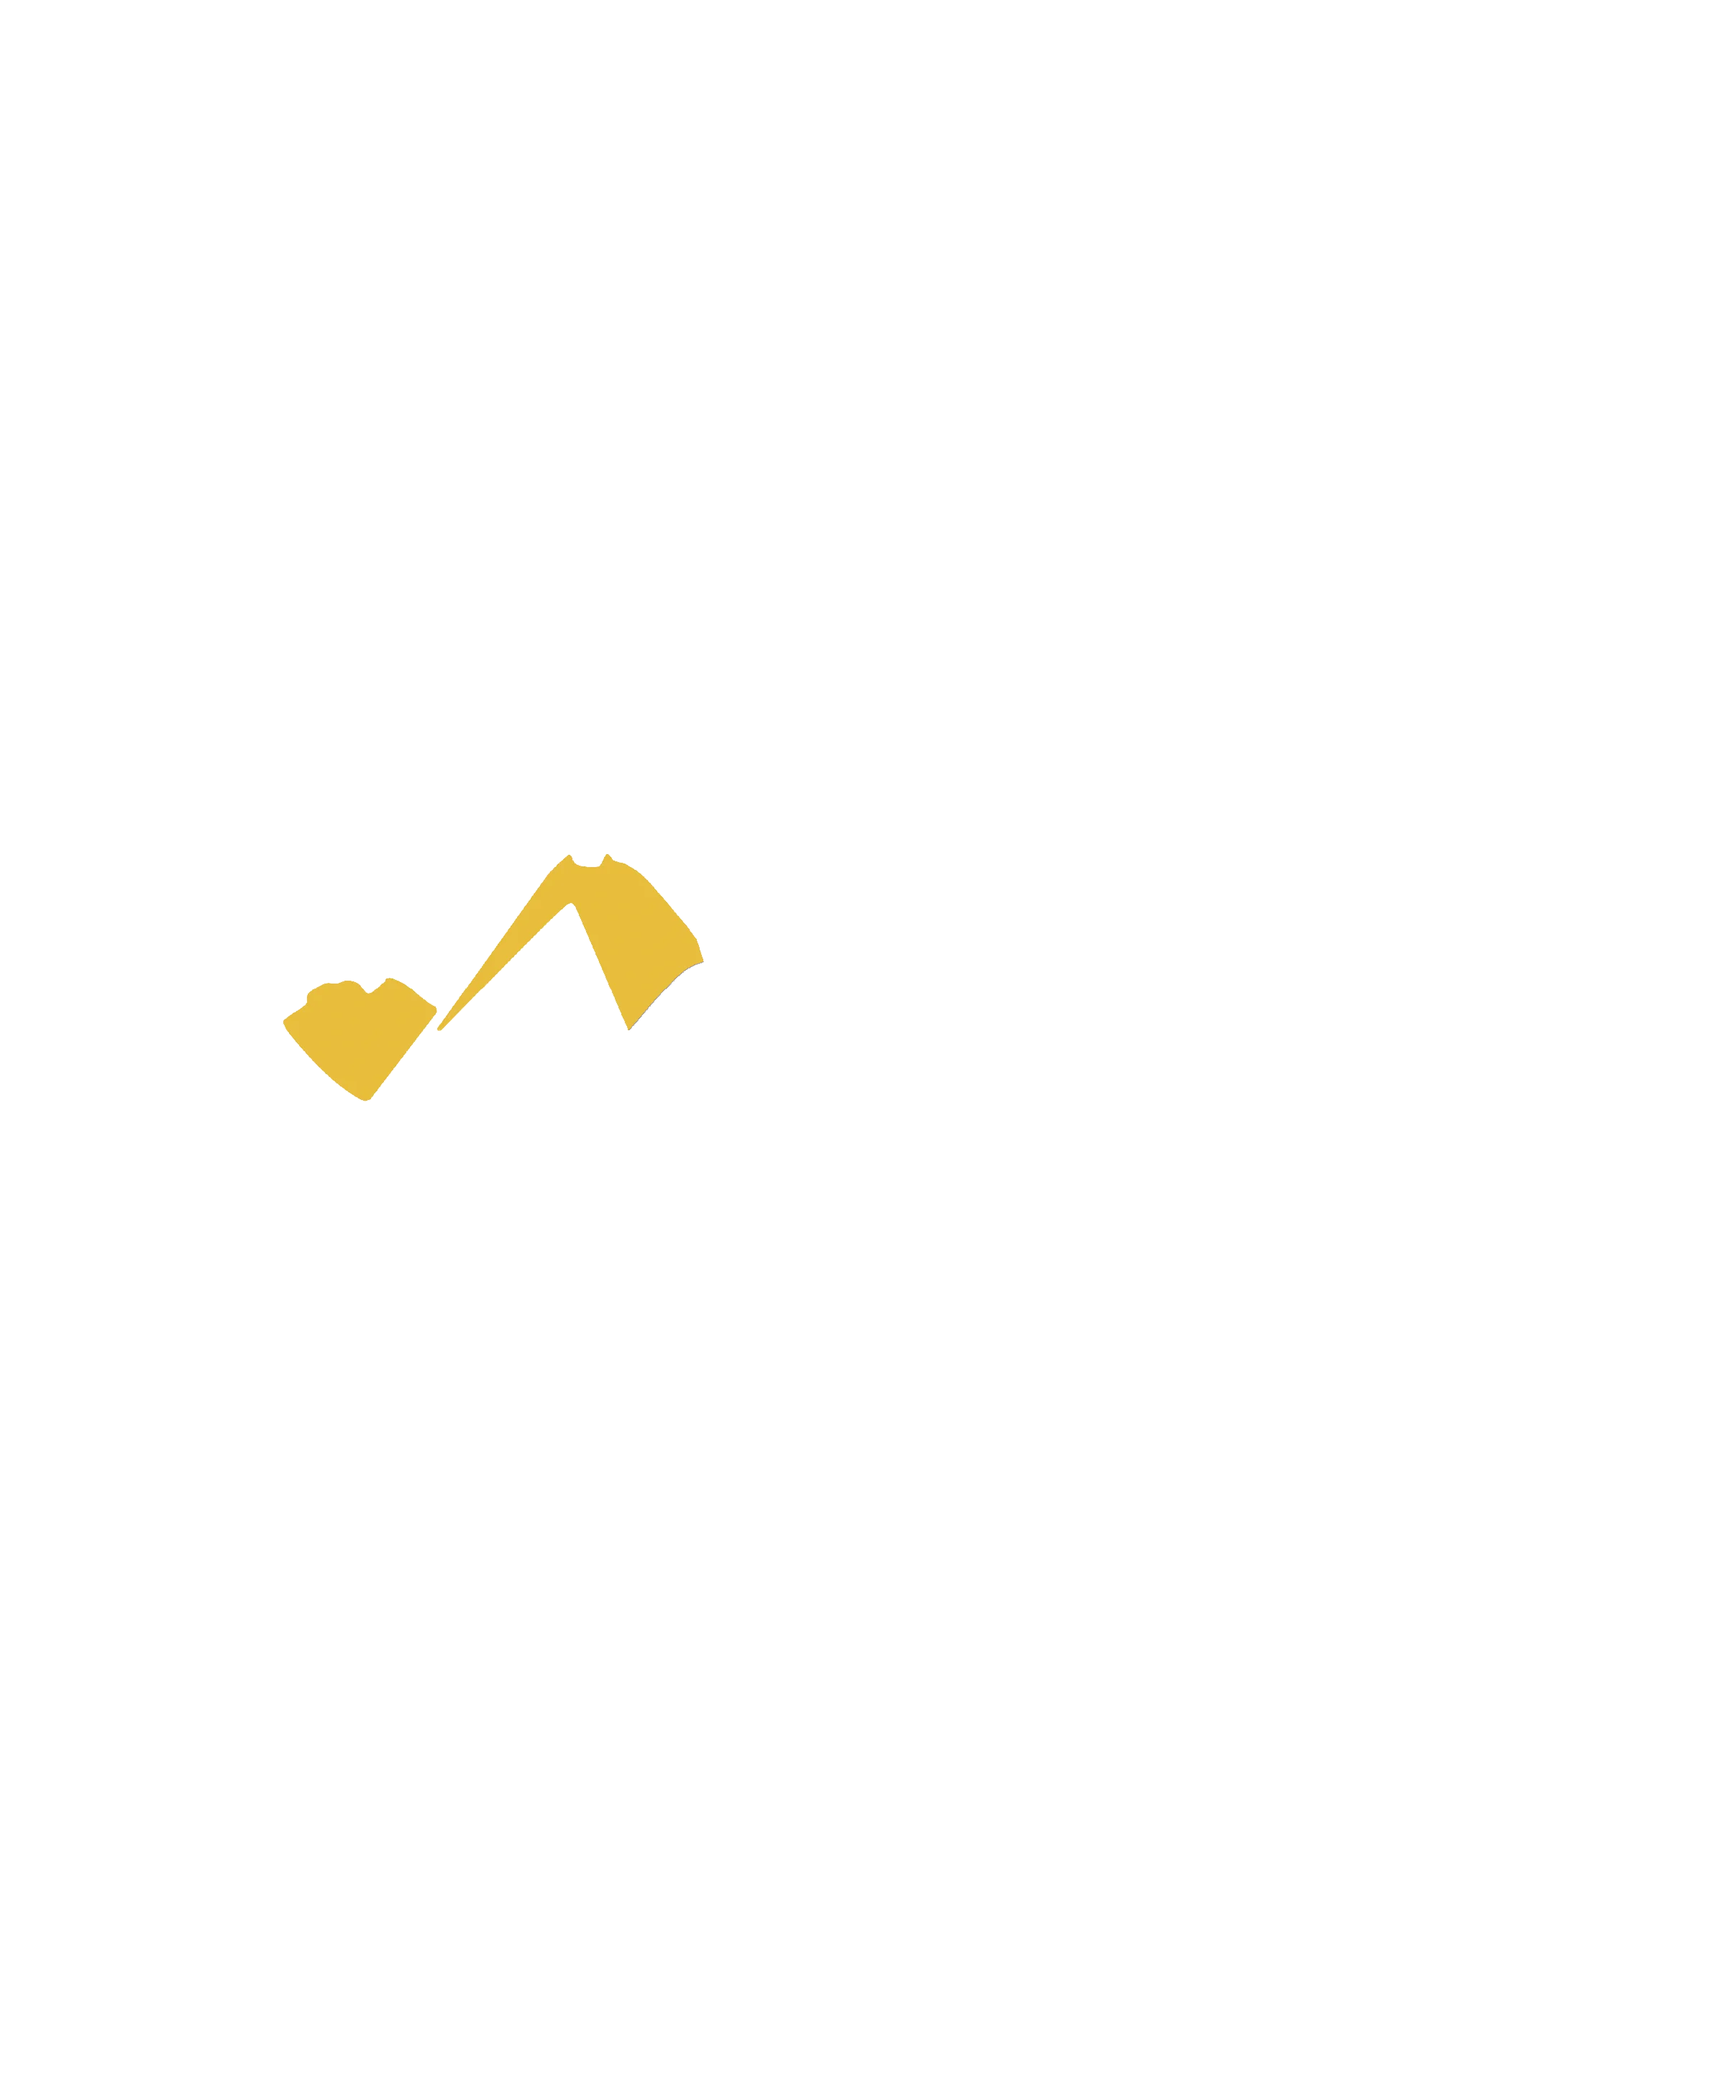
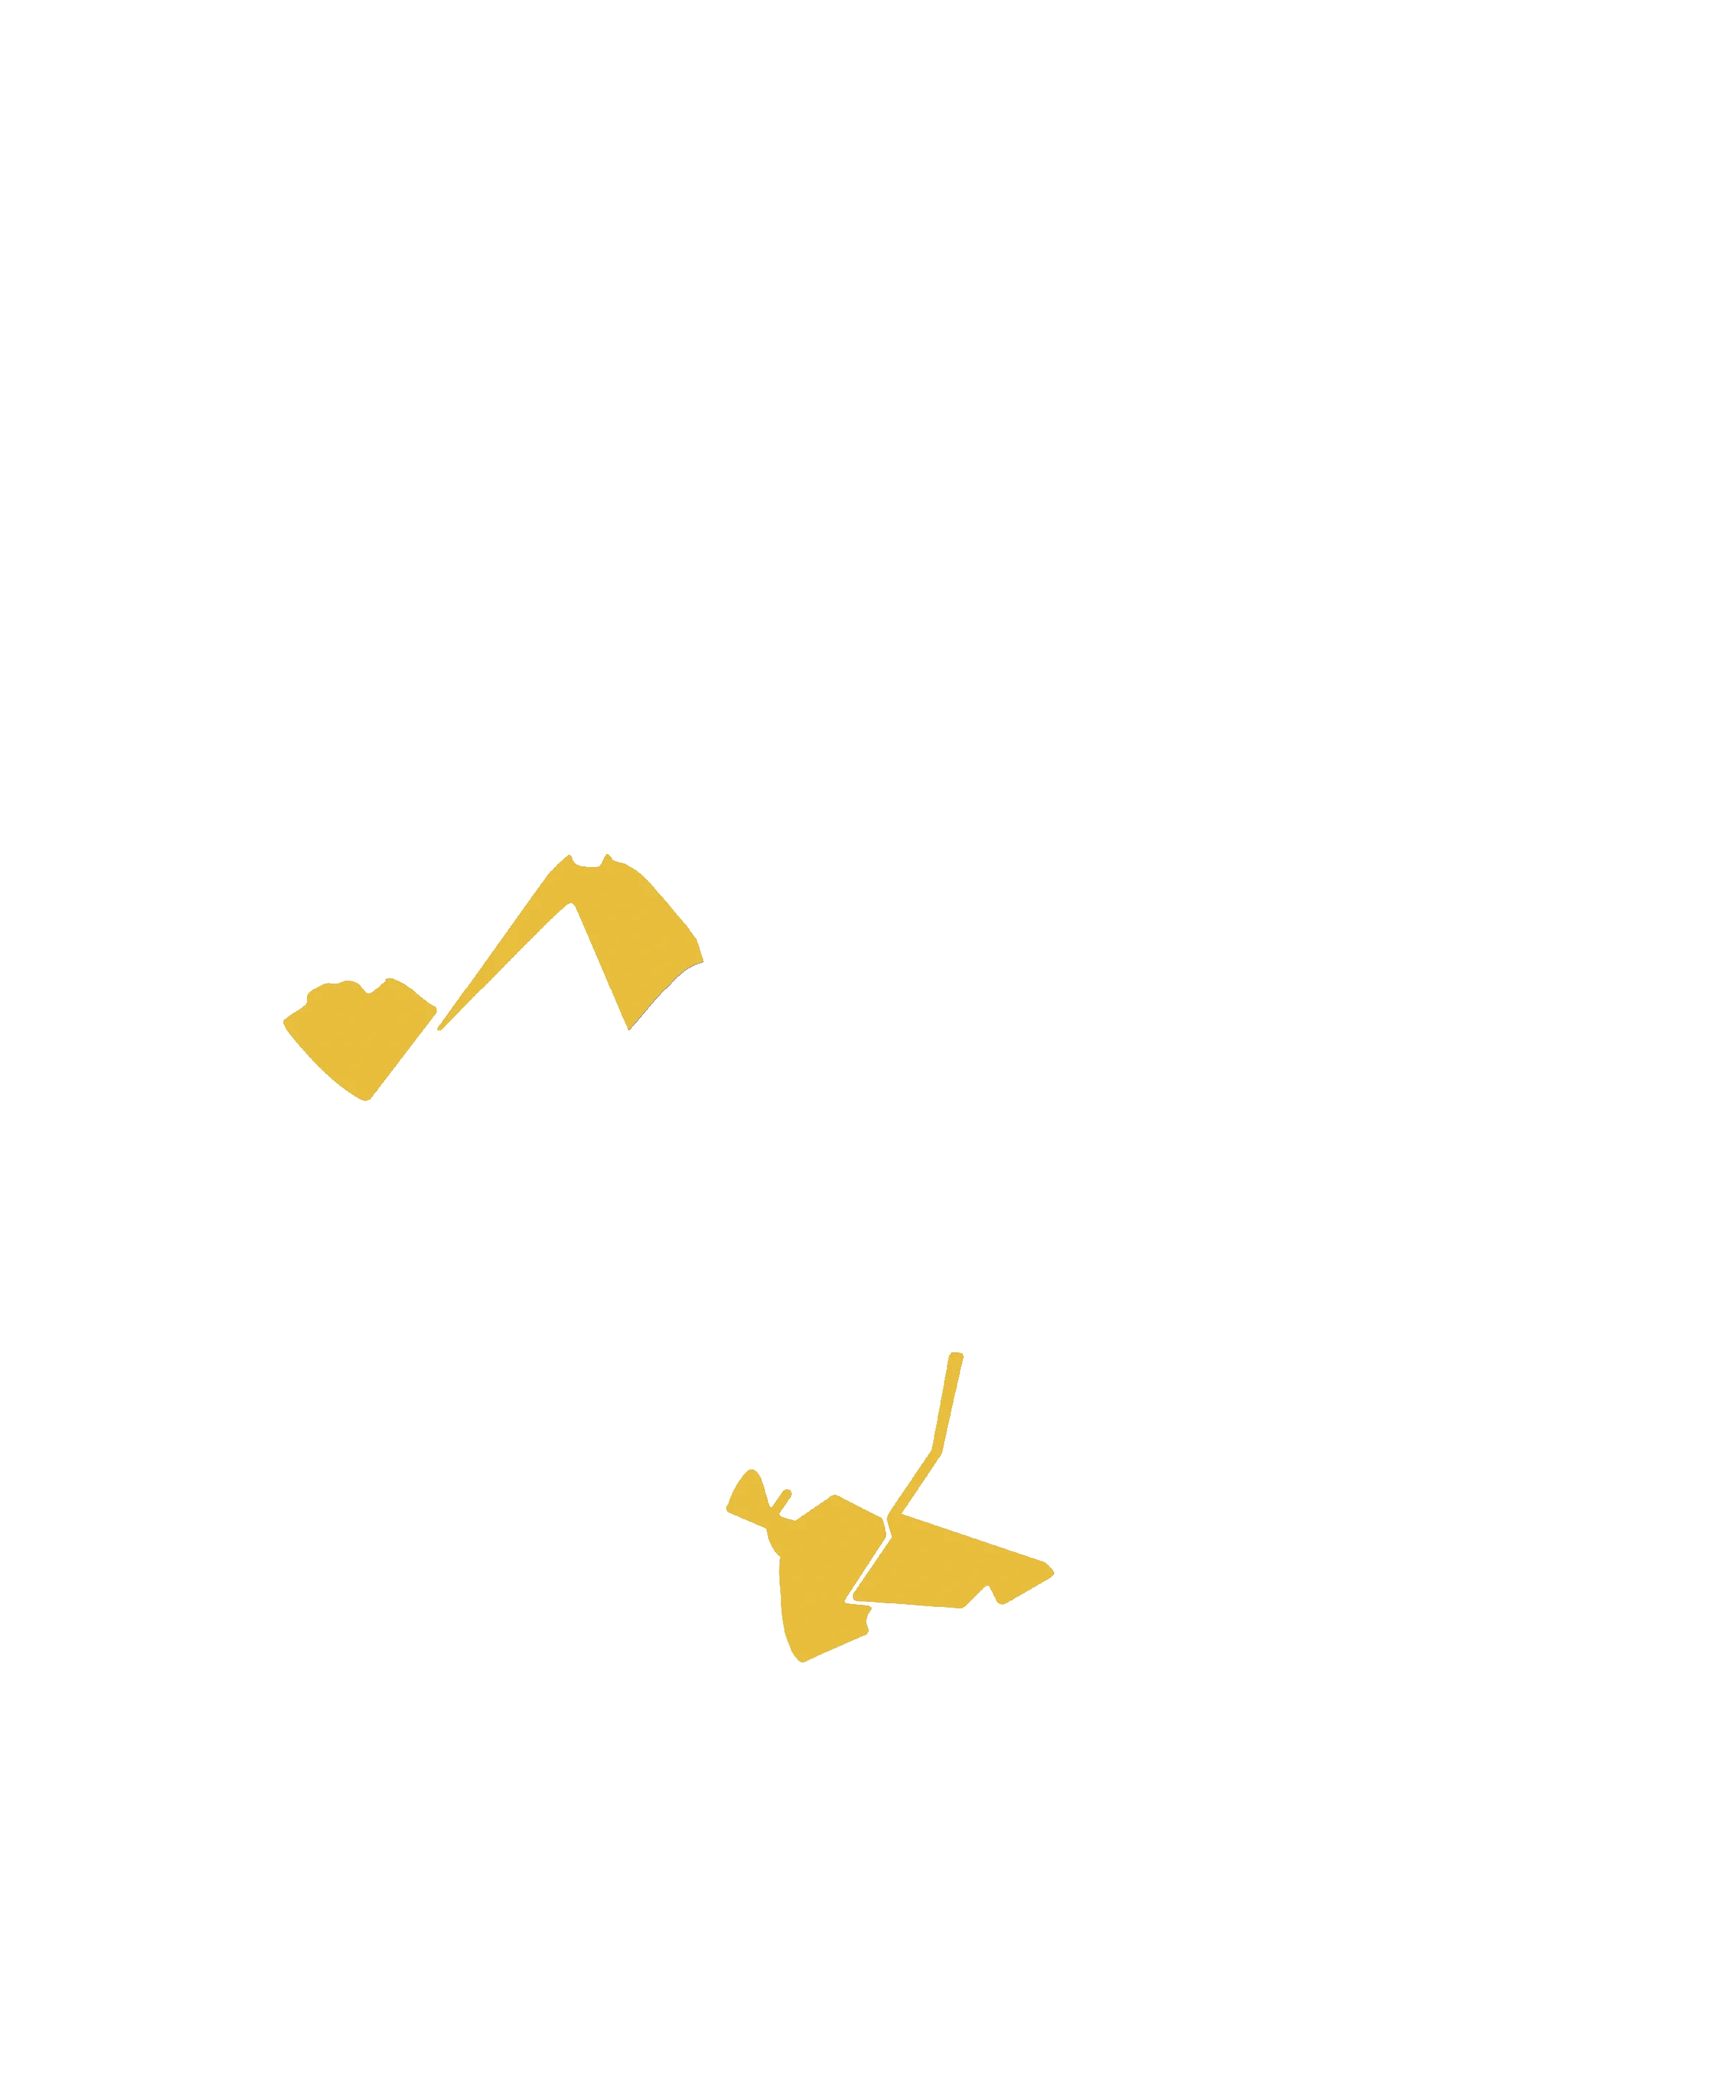
서창동 통합

Changed region(s): [[0.4057, 0.6517, 0.6242, 0.8069]]

diff --git a/lib/page/data/dong_list.dart b/lib/page/data/dong_list.dart
@@ -144,16 +144,6 @@ class DongList {
           Merchant(id: 51, name: "발산마을상인회", x: 1794, y: 267),
         ]
     ),
-    // 52-53
-    Dong(name: '서창(마륵)동', color: Color(0xFFe6bb39),
-        area: Rect.fromLTWH(393, 1187, 586, 345),
-        dongTagArea: Rect.fromLTWH(724, 1325, 152, 52),
-        areaAsset: 'assets/map/dong_마륵.webp',
-        merchantList : [
-          Merchant(id: 52, name: "상무원마륵상인회", x: 475, y: 1421),
-          Merchant(id: 53, name: "마륵동상인회", x: 873, y: 1286),
-        ]
-    ),
     // 54-64
     Dong(name: '상무2동', color: Color(0xFF429bd5),
         area: Rect.fromLTWH(843, 774, 511, 496),
@@ -286,15 +276,26 @@ class DongList {
           Merchant(id: 117, name: "풍암신암상인회", x: 1951, y: 1533),
         ]
     ),
-    // 118-119
-    Dong(name: '서창(매월)동', color: Color(0xFFe7bc3a),
-        area: Rect.fromLTWH(1009, 1880, 458, 433),
-        dongTagArea: Rect.fromLTWH(1167, 2062, 152, 52),
-        areaAsset: 'assets/map/dong_매월.webp',
+    // 52-53
+    Dong(name: '서창동', color: Color(0xFFe6bb39),
+        area: Rect.fromLTWH(393, 1187, 1074, 1126),
+        dongTagArea: Rect.fromLTWH(724, 1325, 152, 52),
+        areaAsset: 'assets/map/dong_마륵.webp',
         merchantList : [
+          Merchant(id: 52, name: "상무원마륵상인회", x: 475, y: 1421),
+          Merchant(id: 53, name: "마륵동상인회", x: 873, y: 1286),
           Merchant(id: 118, name: "전평제상인회", x: 1119, y: 2160),
           Merchant(id: 119, name: "매월동상인회", x: 1273, y: 2157),
         ]
     ),
+    // // 118-119
+    // Dong(name: '서창(매월)동', color: Color(0xFFe7bc3a),
+    //     area: Rect.fromLTWH(1009, 1880, 458, 433),
+    //     dongTagArea: Rect.fromLTWH(1167, 2062, 152, 52),
+    //     areaAsset: 'assets/map/dong_매월.webp',
+    //     merchantList : [
+    //
+    //     ]
+    // ),
   ];
 }
